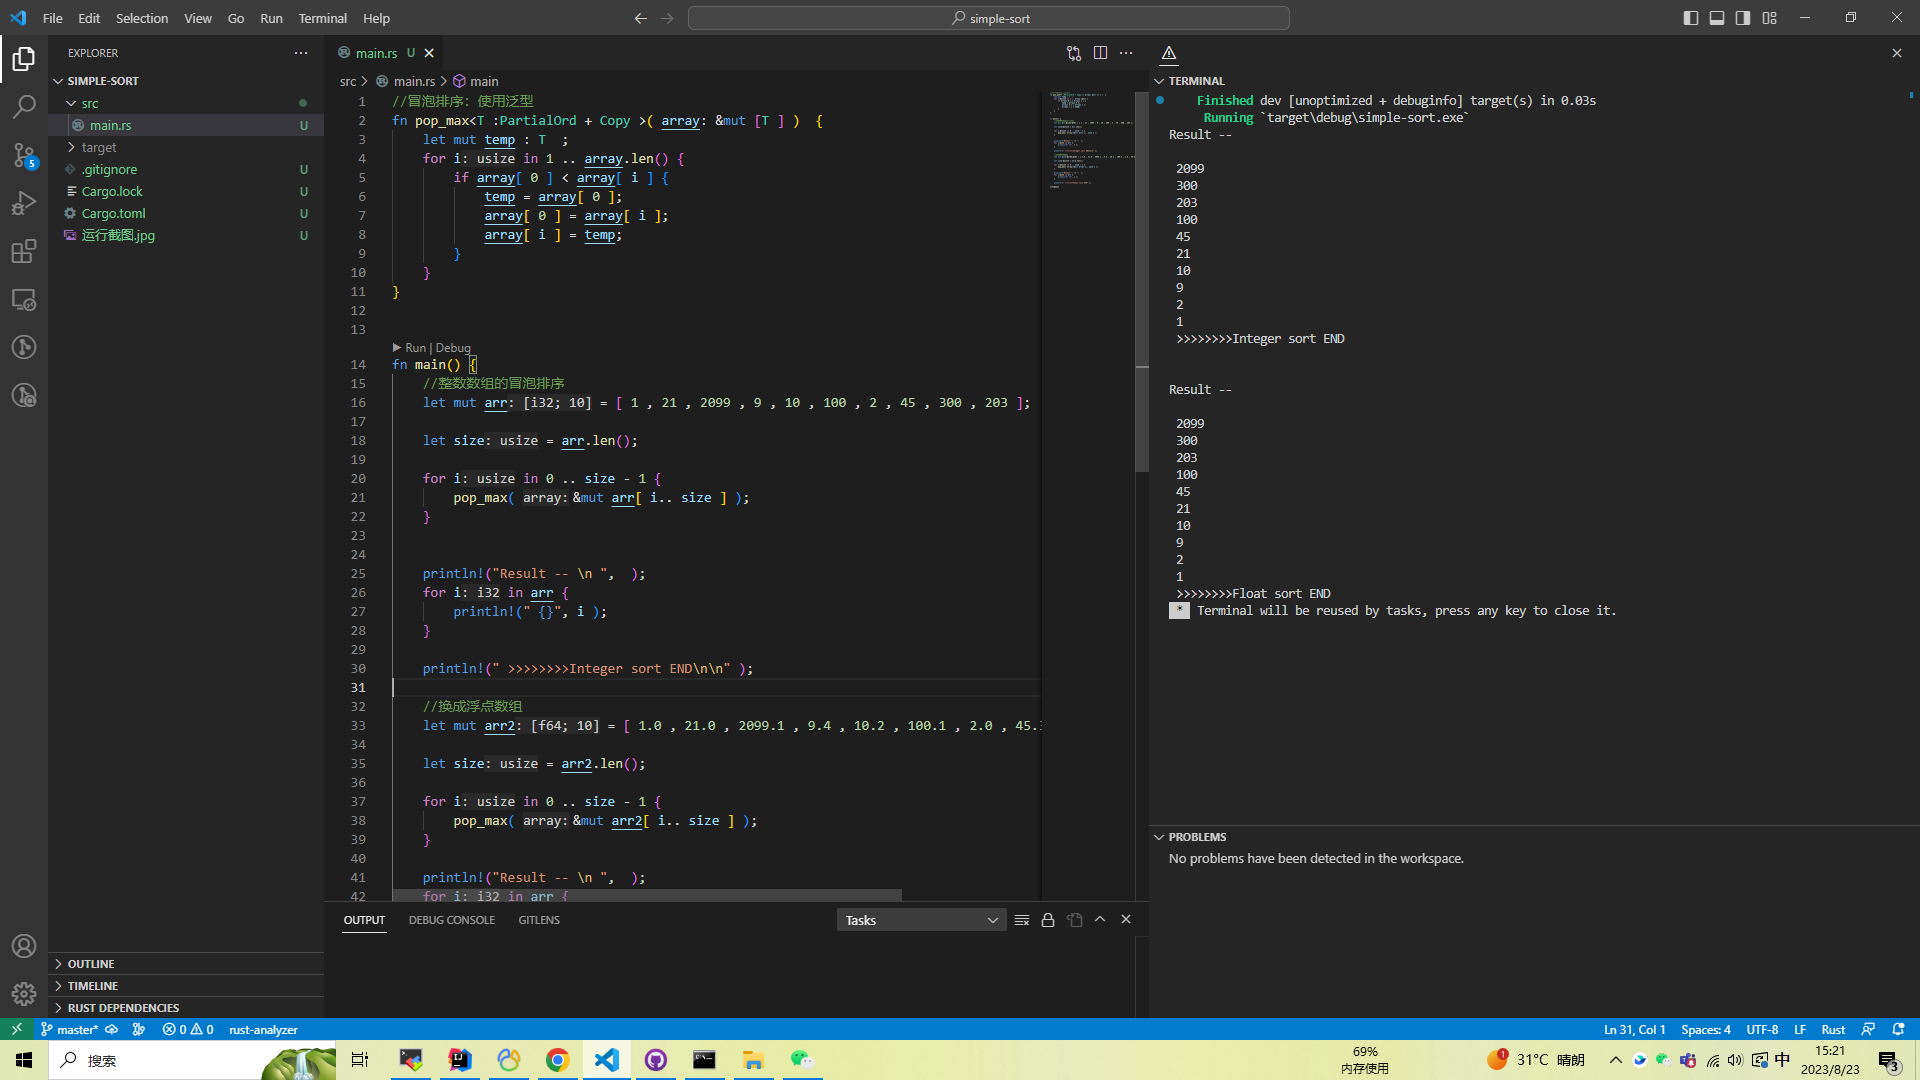
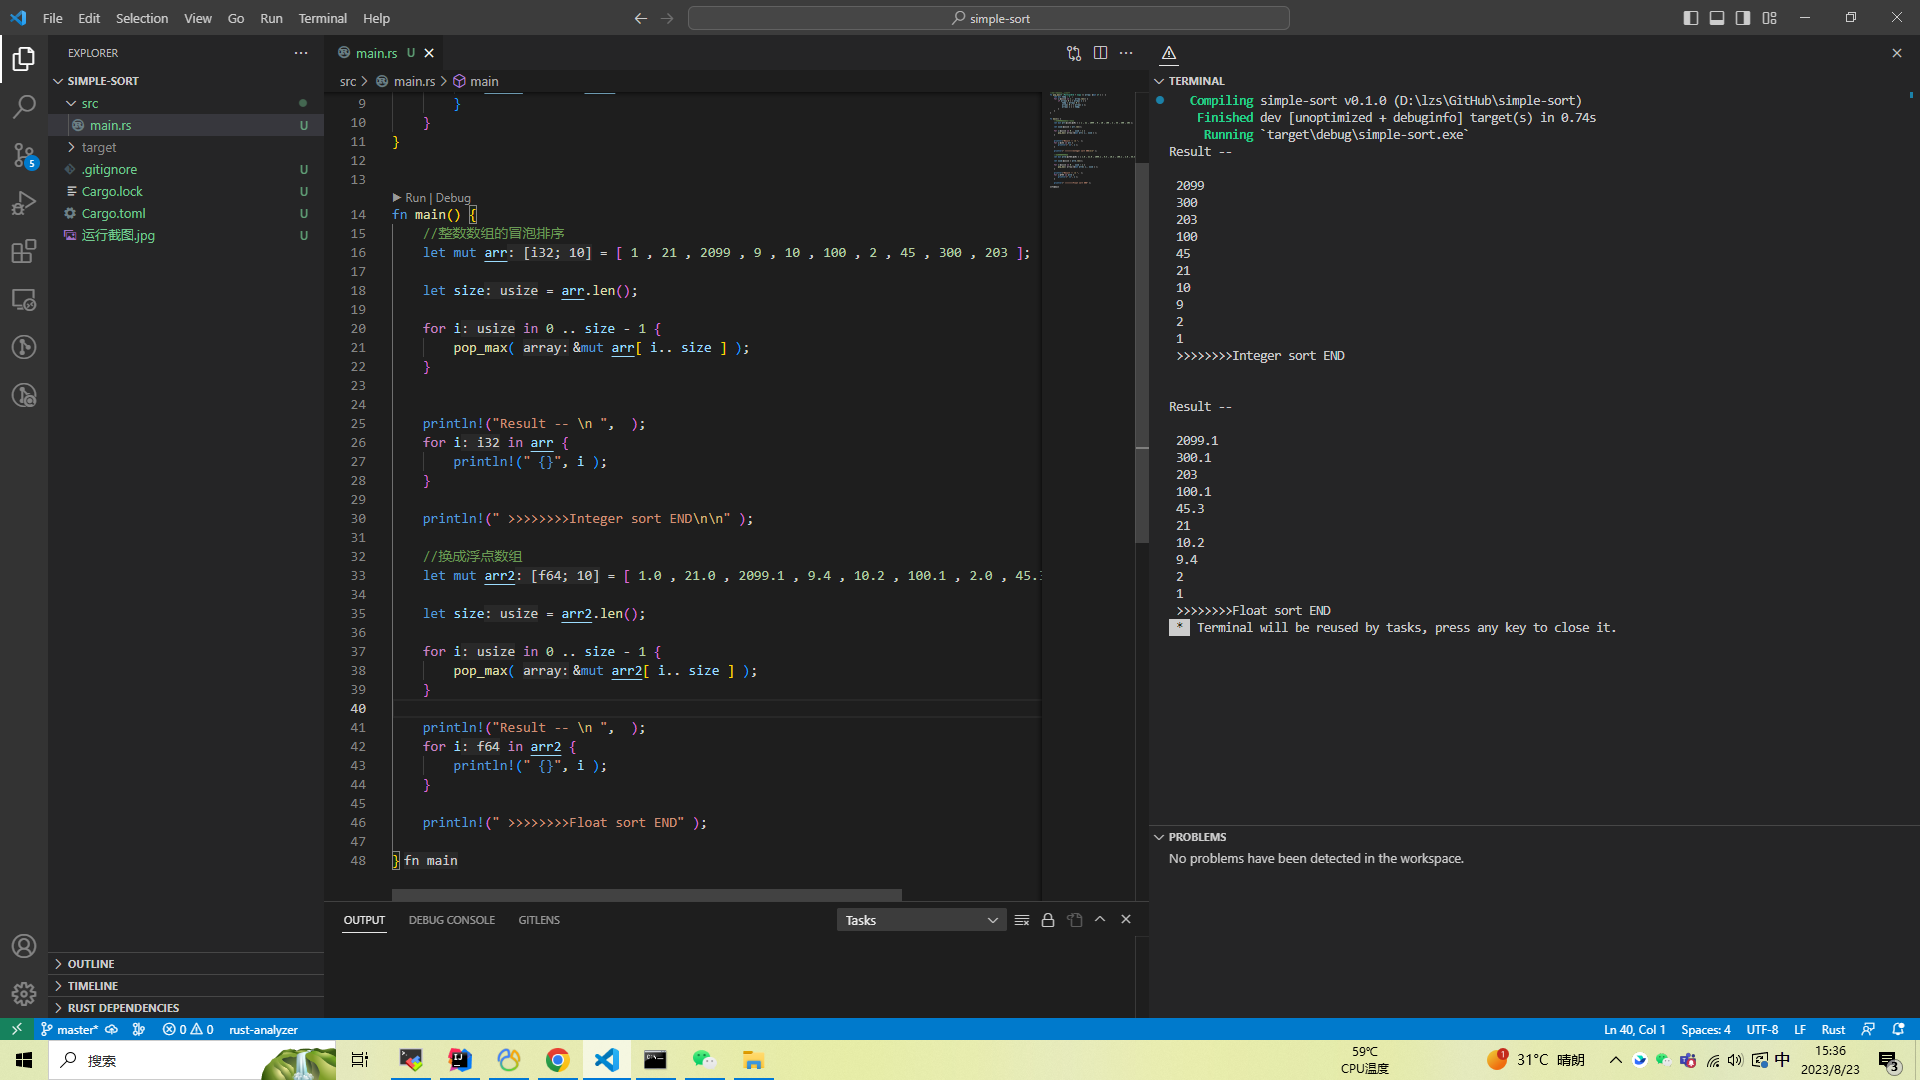
modify main.rs

diff --git a/src/main.rs b/src/main.rs
@@ -39,7 +39,7 @@ fn main() {
     }
 
     println!("Result -- \n ",  );
-    for i in arr {
+    for i in arr2 {
         println!(" {}", i );
     }
     
